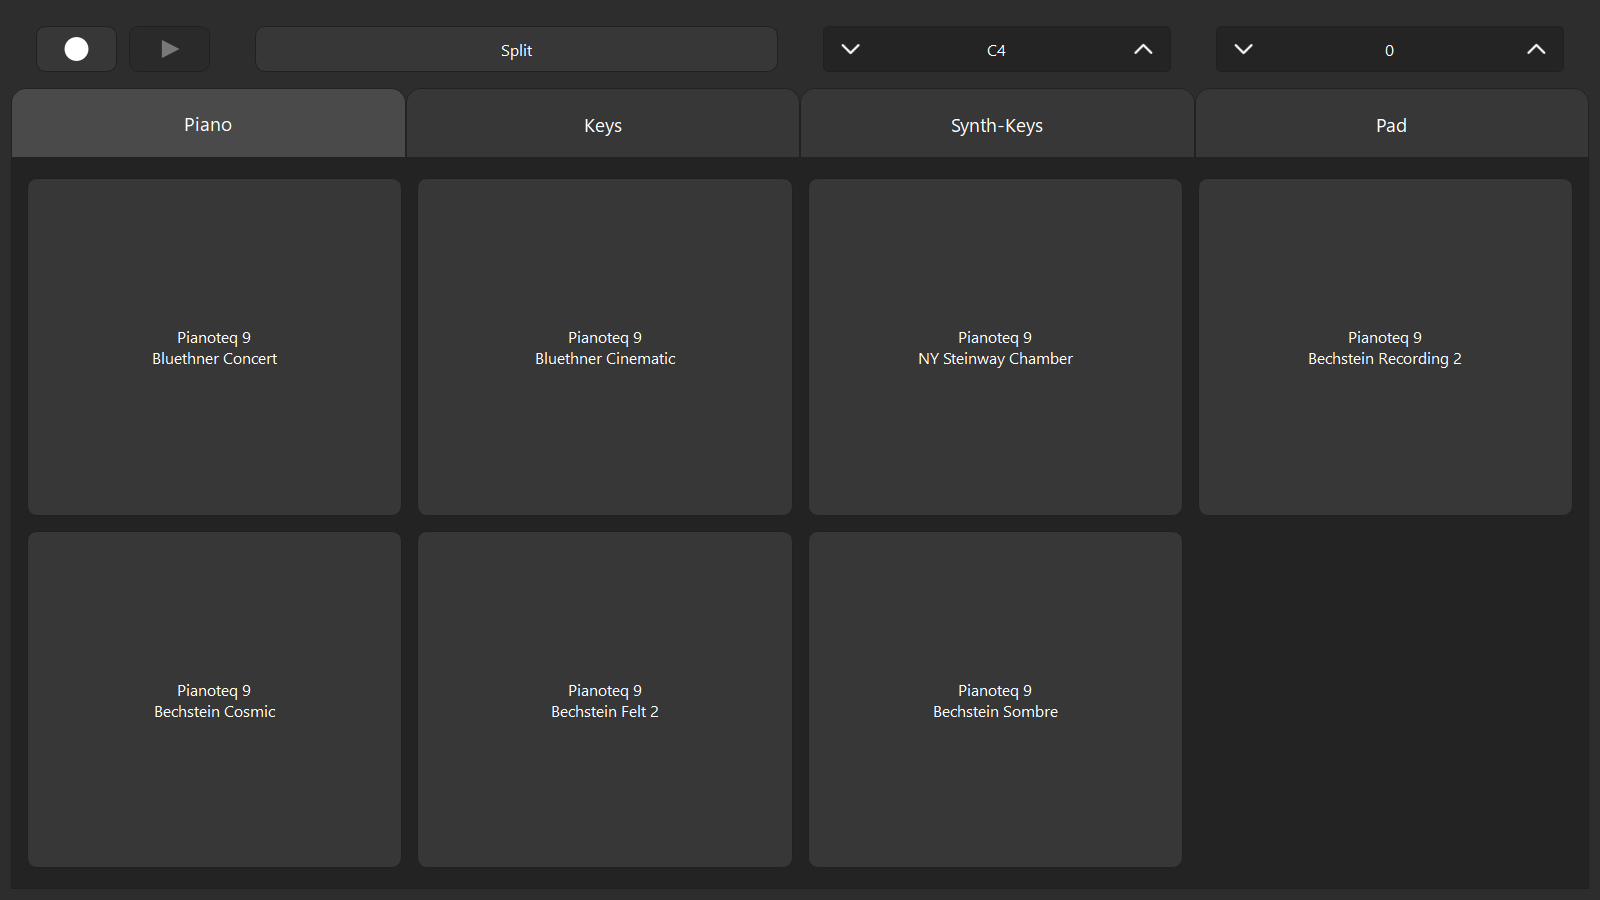
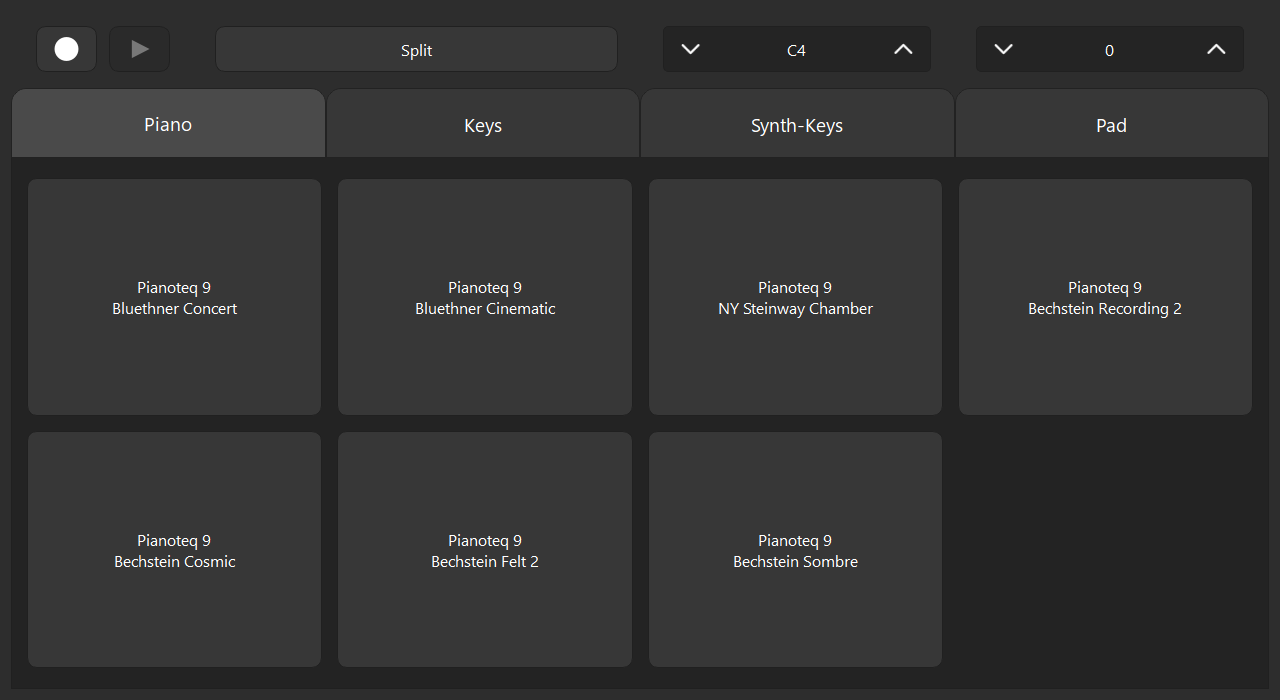
Update README with preface and additional details; adjust window size in grab.py for better UI layout

diff --git a/.cursor/skills/preview-ui/scripts/grab.py b/.cursor/skills/preview-ui/scripts/grab.py
@@ -47,7 +47,7 @@ def _preview_run(app):
 
 
 def _show_preview(self):
-    self.setGeometry(80, 80, 1600, 900)
+    self.setGeometry(80, 80, 1280, 700)
     self.show()
 
 

diff --git a/README.md b/README.md
@@ -1,10 +1,20 @@
+## Preface
+
+I made this application in a weekend back in 2021 to transform an old Casio keyboard with dated, unimpressive sounds (but a decent keybed) into something relevant and high quality. By simply grabbing an old hp elitedesk mini and buying a $35 5 inch touchscreen, this Casio can now play Pianoteq, Arturia Pigments, etc. in a single press of the finger.
+
+I wanted to make this code public but I knew it needed work to be simple to implement. I could never get to creating instructions for Carla setup, scripts for setting up audio/JACK, real time audio Linux optimizations (passing rtqcs), etc. Which I did manually at the time.
+
+Now that I've decided to update this application with new features (like Midi Record/Playback), I hope to get to the setup scripts as well. 
+
 # Carla Interface
 
-Touchscreen PyQt6 front-end for a fixed [Carla](https://kx.studio/Applications:Carla) rack: preset buttons, keyboard split, and octave shift. It talks to Carla over OSC (`oscsend`) and sends MIDI program changes through ALSA (`aplaymidi`).
+Touchscreen PyQt6 front-end for a fixed [Carla](https://kx.studio/Applications:Carla) rack: preset buttons, keyboard split, octave shift, and more. It talks to Carla over OSC (`oscsend`) and sends MIDI program changes through ALSA (`aplaymidi`).
 
 ![Carla Interface](docs/screenshot.png)
 
 Python **3.10**, Linux. The piano-PC overlay (autostart, JACK, Carla project) lives in [`os/`](os/) and is not required to edit the app.
+
+The Carla example in this repo is specific to my setup, but does well to show how many types of programs can interact with this interface. (For example, Pianoteq takes program changes, Pigments does not and takes midi commands).
 
 ## Setup
 
